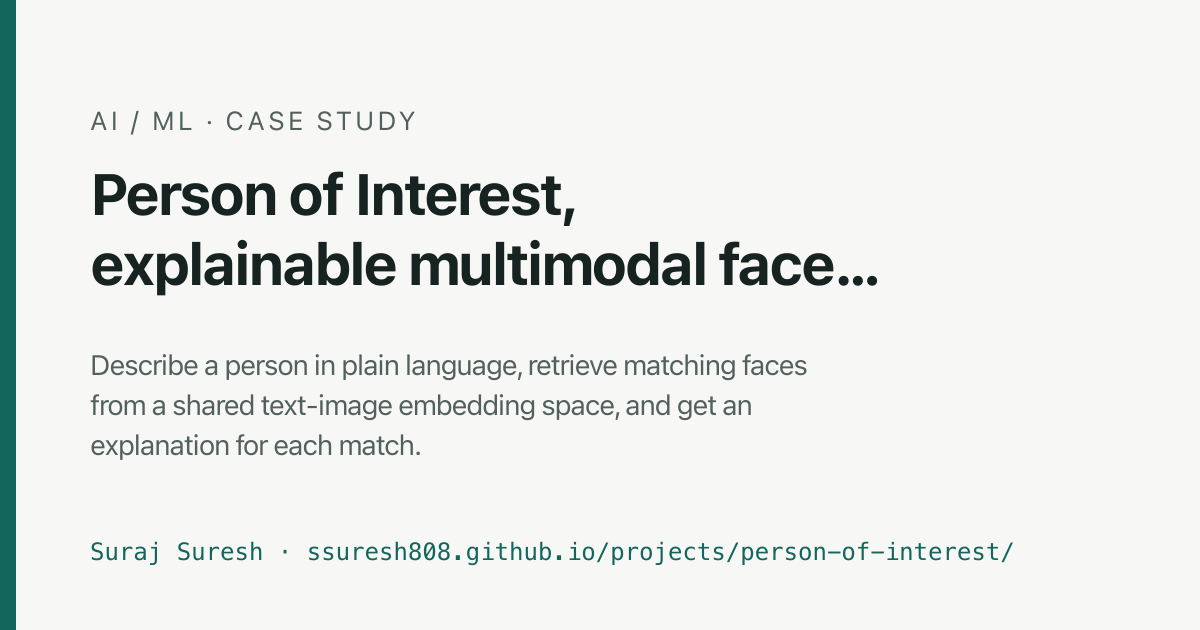
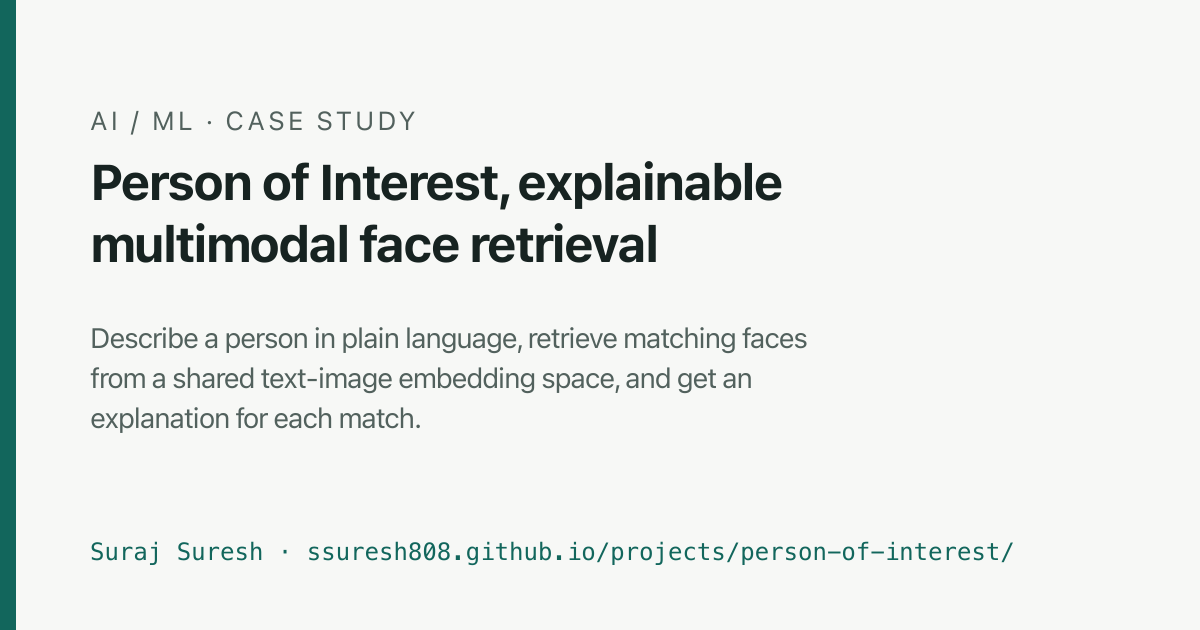
fix: wider title wrap for project social images

Changed region(s): [[0.0617, 0.5127, 0.6783, 0.7238], [0.0617, 0.2413, 0.74, 0.4825]]

diff --git a/scripts/make-og-image.ts b/scripts/make-og-image.ts
@@ -45,10 +45,10 @@ async function home() {
 async function projects() {
   fs.mkdirSync('public/og', { recursive: true });
   for (const p of getPublishedProjects()) {
-    const title = wrap(p.title, 30, 2);
+    const title = wrap(p.title, 36, 3);
     const tagline = wrap(p.tagline, 62, 3);
-    const titleSvg = title.map((l, i) => `<text x="90" y="${215 + i * 70}" font-family="Inter, system-ui, sans-serif" font-size="58" font-weight="700" fill="#172321">${esc(l)}</text>`).join('');
-    const tagY = 215 + title.length * 70 + 20;
+    const titleSvg = title.map((l, i) => `<text x="90" y="${200 + i * 62}" font-family="Inter, system-ui, sans-serif" font-size="50" font-weight="700" fill="#172321">${esc(l)}</text>`).join('');
+    const tagY = 200 + title.length * 62 + 24;
     const tagSvg = tagline.map((l, i) => `<text x="90" y="${tagY + i * 40}" font-family="Inter, system-ui, sans-serif" font-size="28" fill="#52615D">${esc(l)}</text>`).join('');
     const svg = frame(`
   <text x="90" y="130" font-family="Inter, system-ui, sans-serif" font-size="26" fill="#52615D" letter-spacing="4">${esc(CATEGORY_LABELS[p.category].toUpperCase())}  ·  CASE STUDY</text>
